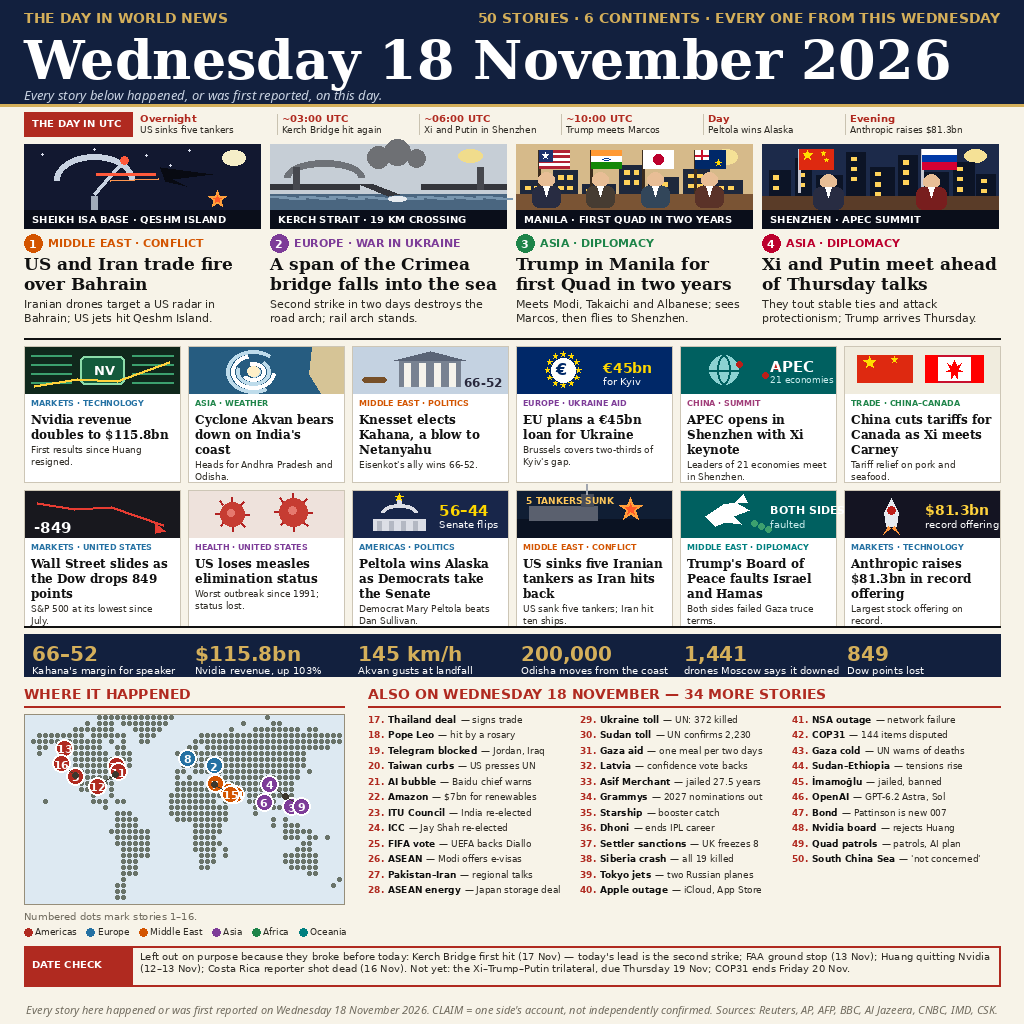
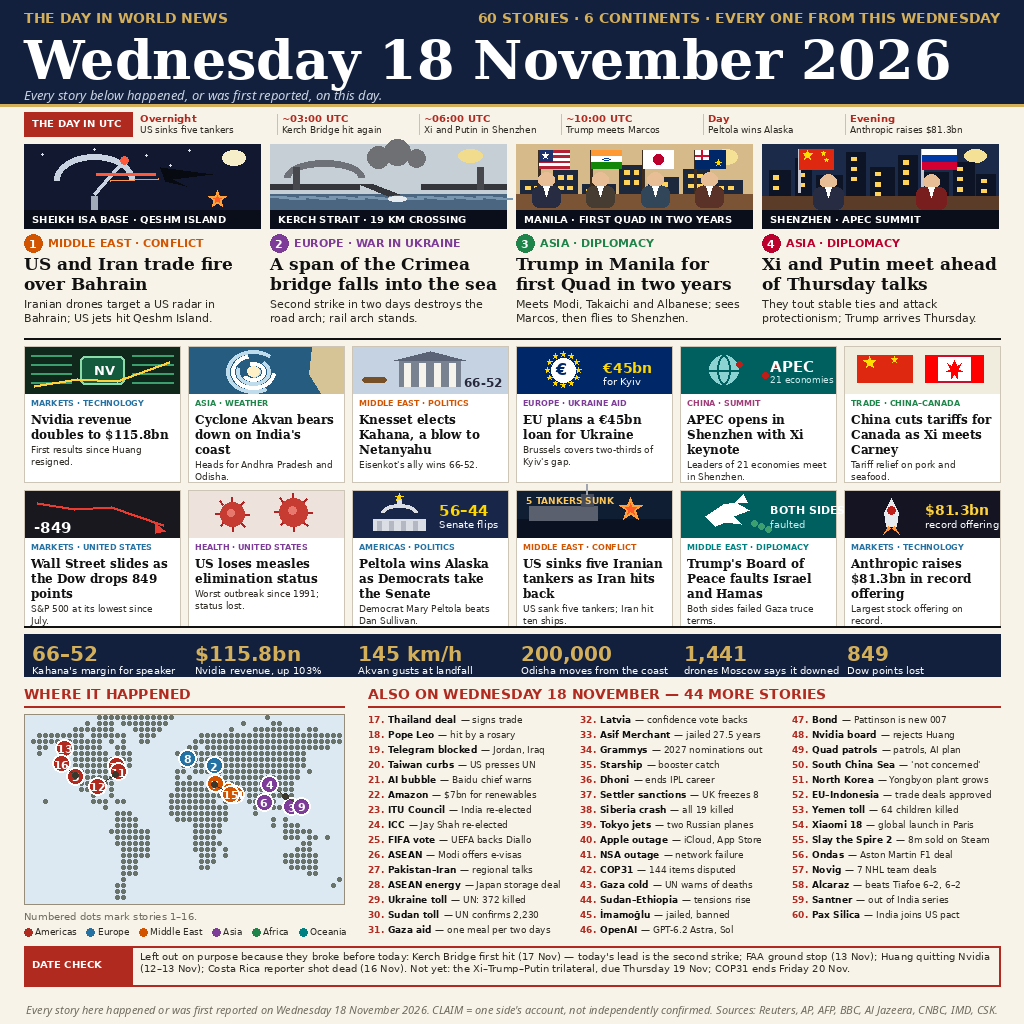
v4-top50: expand broadsheet to 60 stories

Changed region(s): [[0.3438, 0.6875, 0.9688, 0.9375]]

diff --git a/draw.py b/draw.py
@@ -7,7 +7,7 @@ cream paper, a masthead that counts the stories, a UTC timeline strip
 across the day, FOUR large illustrated leads, TWELVE medium cards with a
 picture strip on top, a BY THE NUMBERS strip, a dotted world map with
 numbered pins and a region legend, a three-column briefs list, and an
-explicit DATE CHECK box naming what was left out on purpose. 50 verified
+explicit DATE CHECK box naming what was left out on purpose. 60 verified
 stories in all.
 
 Every story was checked against real reporting of 18 November 2026
@@ -174,6 +174,21 @@ BRIEFS = [
     ("Nvidia board", "rejects Huang"),
     ("Quad patrols", "patrols, AI plan"),
     ("South China Sea", "'not concerned'"),
+    # v4: ten more stories, all first reported Wednesday 18 November 2026
+    # (numbers 51..60) -- IAEA on Yongbyon, EU-Indonesia CEPA/IPA, UNICEF
+    # Yemen toll, Xiaomi 18 Paris launch, Slay the Spire 2 sales, Ondas-Aston
+    # Martin F1, Novig's 7 NHL deals, Alcaraz at the ATP Finals, Santner
+    # out of the India Tests, India joins the Pax Silica pact.
+    ("North Korea", "Yongbyon plant grows"),
+    ("EU\u2013Indonesia", "trade deals approved"),
+    ("Yemen toll", "64 children killed"),
+    ("Xiaomi 18", "global launch in Paris"),
+    ("Slay the Spire 2", "8m sold on Steam"),
+    ("Ondas", "Aston Martin F1 deal"),
+    ("Novig", "7 NHL team deals"),
+    ("Alcaraz", "beats Tiafoe 6\u20132, 6\u20132"),
+    ("Santner", "out of India series"),
+    ("Pax Silica", "India joins US pact"),
 ]
 
 # UTC strip: (time label, event)
@@ -727,7 +742,7 @@ def main():
     # ---- masthead: dark navy band --------------------------------------
     d.rectangle([0, 0, W, 104], fill=NAVY)
     d.text((24, 10), "THE DAY IN WORLD NEWS", font=F_KICK, fill=GOLD)
-    right = "50 STORIES \u00b7 6 CONTINENTS \u00b7 EVERY ONE FROM THIS WEDNESDAY"
+    right = "60 STORIES \u00b7 6 CONTINENTS \u00b7 EVERY ONE FROM THIS WEDNESDAY"
     d.text((W - 24 - d.textlength(right, font=F_KICK), 10), right,
            font=F_KICK, fill=GOLD)
     d.text((24, 28), "Wednesday 18 November 2026", font=F_DATE,
@@ -802,7 +817,7 @@ def main():
     by = 686
     d.text((24, by), "WHERE IT HAPPENED", font=F_KICK, fill=RED)
     d.rectangle([24, by + 20, 344, by + 21], fill=RED)
-    d.text((368, by), "ALSO ON WEDNESDAY 18 NOVEMBER \u2014 34 MORE STORIES",
+    d.text((368, by), "ALSO ON WEDNESDAY 18 NOVEMBER \u2014 44 MORE STORIES",
            font=F_KICK, fill=RED)
     d.rectangle([368, by + 20, W - 24, by + 21], fill=RED)
     draw_map(d, 24, by + 28, 320, 190)
@@ -821,10 +836,10 @@ def main():
     ly = by + 28
     for i, (lead, deck) in enumerate(BRIEFS):
         n = i + 17
-        col = i // 12
+        col = i // 15
         cx = 368 + col * 212
         col_w = 208
-        yy = ly + (i % 12) * 15.5
+        yy = ly + (i % 15) * 15.0
         num = str(n) + "."
         num_w = d.textlength(num, font=F_ALSO_N)
         shown, trimmed = deck, False

diff --git a/main.py b/main.py
@@ -8,7 +8,7 @@ broadsheet front page for Wednesday 18 November 2026 -- a navy masthead,
 a UTC timeline strip, 4 illustrated lead cards, 12 illustrated medium
 cards, a BY THE NUMBERS strip, a dotted world map with numbered pins and
 a region legend, a three-column list of the rest of the day, and an
-explicit DATE CHECK box, 50 verified stories in all.
+explicit DATE CHECK box, 60 verified stories in all.
 
 Run it with:  mkdir -p out && MAKEFUN_OUTPUT_DIR=out python3 main.py
 """
